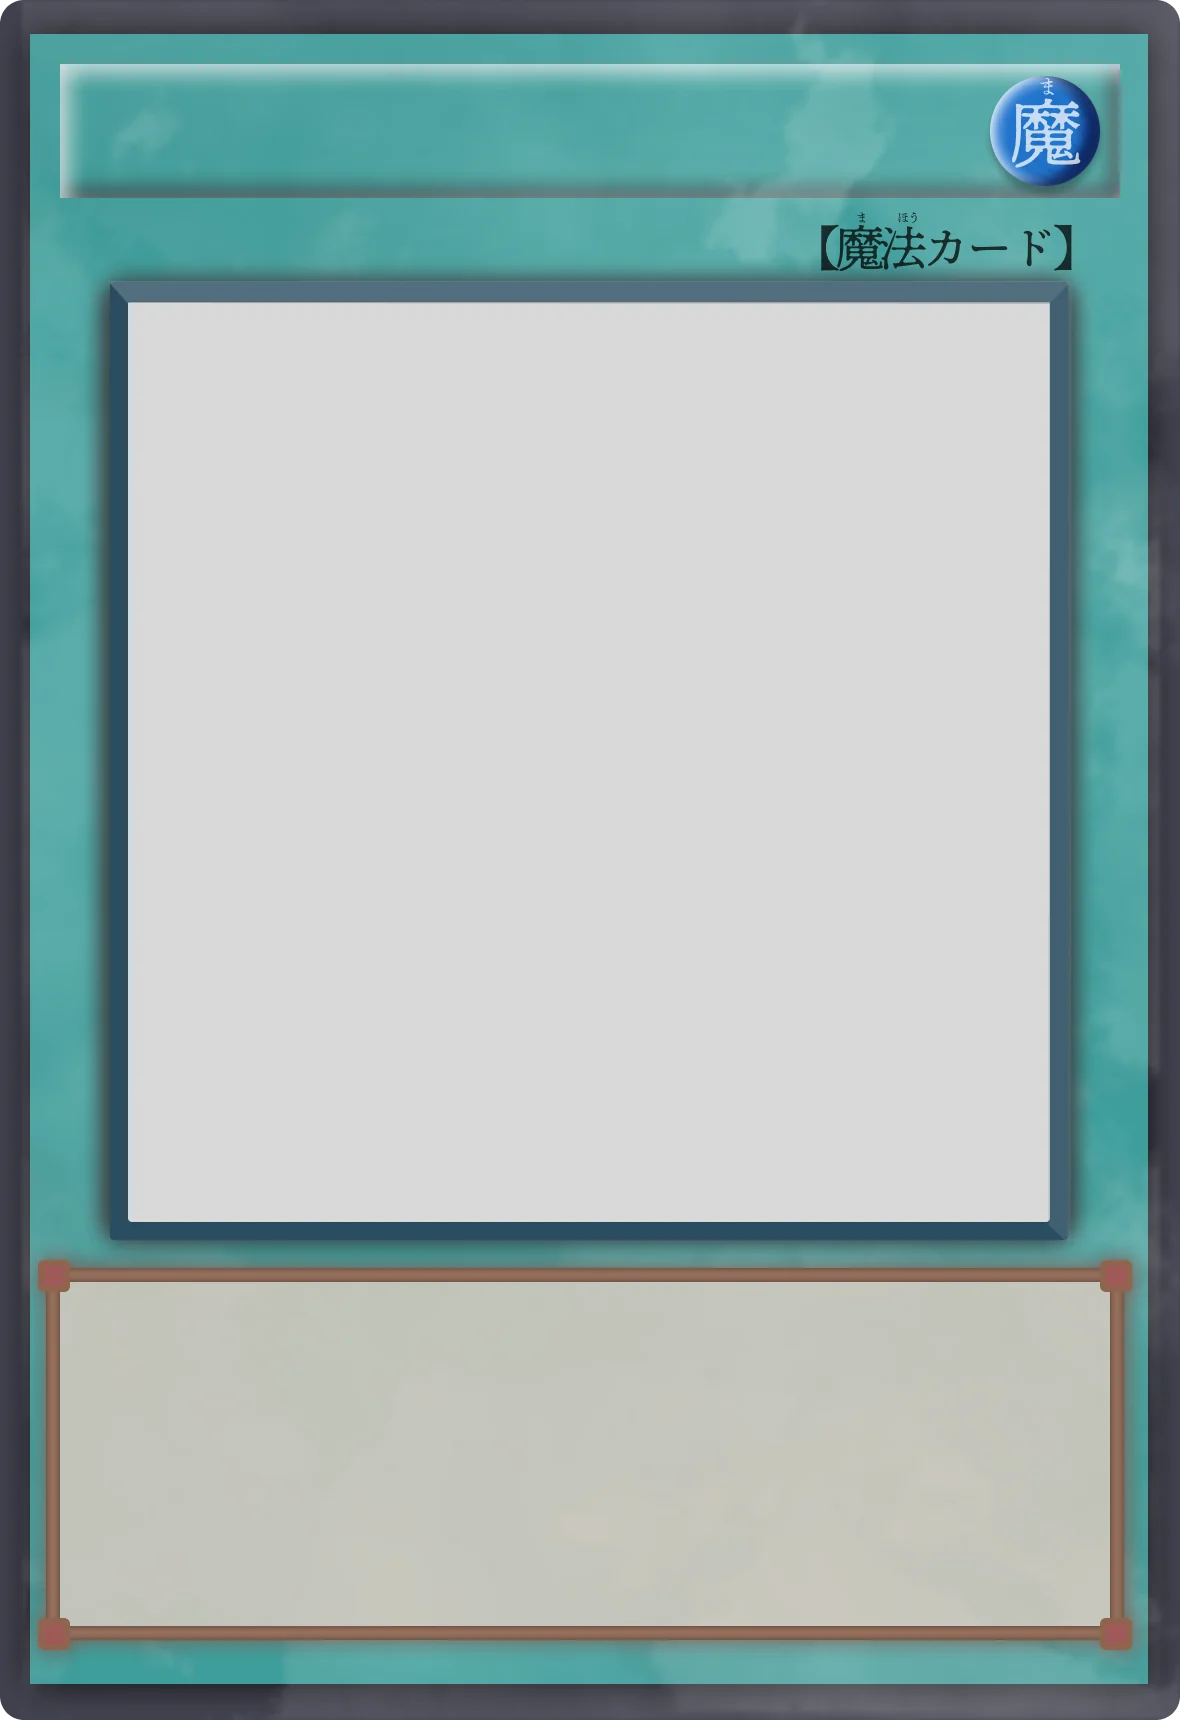
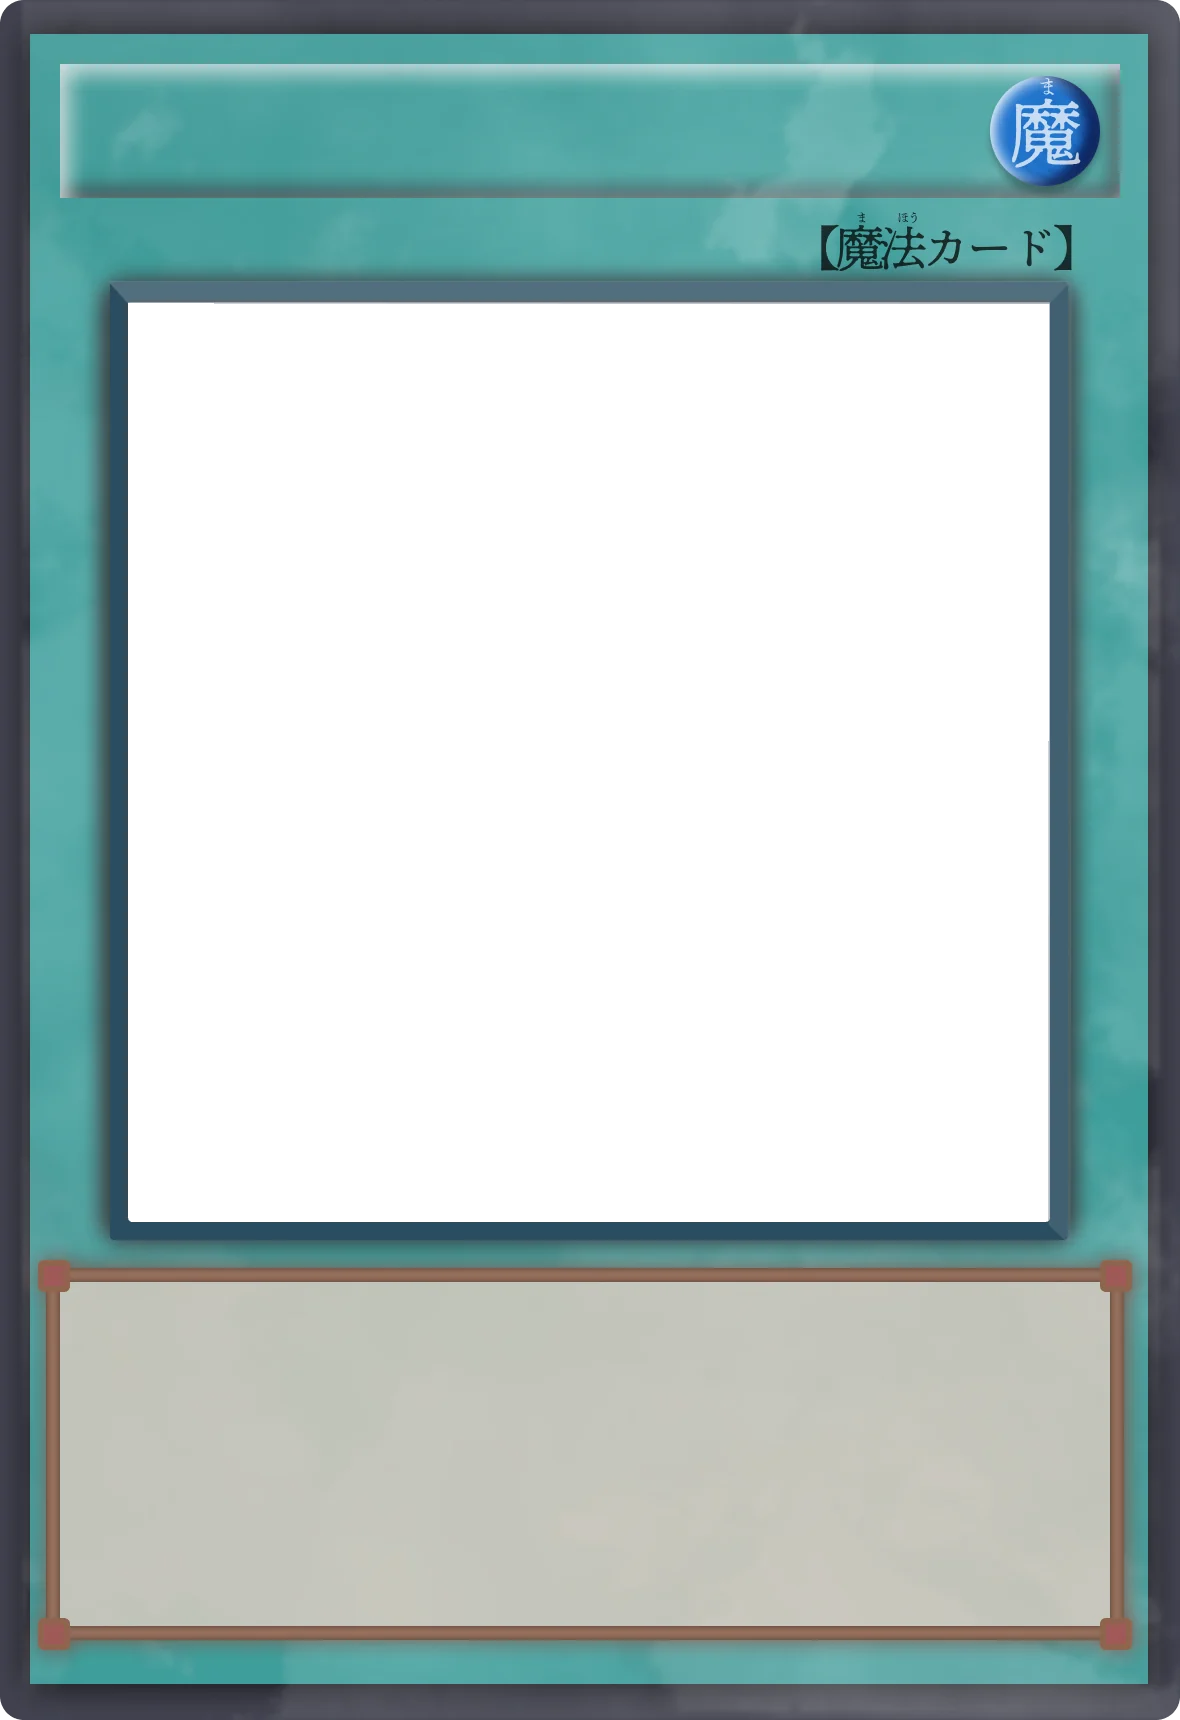
遊戯王風の枠: 絵の欄を枠画像の下に敷いて、下のすき間をなくす
Claude-Session: https://claude.ai/code/session_01P2VDzpyWFsYvAuZKcLX5At

diff --git a/index.html b/index.html
@@ -1116,16 +1116,16 @@ div.f{display:flex;flex-direction:column;gap:4px;font-weight:700;font-size:13px}
 /* editor */
 /* 遊戯王風の枠（サバ缶デザイン・Figma Frame 44〜46 / 590×860）: モンスター・魔法（装備も）・罠で画像が変わる。星の数がコスト */
 .card.ygo{--yu:calc(var(--w)/590);aspect-ratio:590/860;padding:0;background:transparent;border:none;border-radius:calc(var(--yu)*12);box-shadow:0 calc(var(--yu)*4) calc(var(--yu)*12) rgba(0,0,0,.35);color:#30211c;isolation:isolate;font-family:var(--cf,"Shippori Mincho",serif)}
-.card.ygo::before{content:"";position:absolute;inset:0;background:url("assets/ygo_mon.webp") 0 0/100% 100% no-repeat;border-radius:inherit;z-index:0;pointer-events:none}
-.card.ygo.magic::before,.card.ygo.equip::before{background-image:url("assets/ygo_mag.webp")}
-.card.ygo.trap::before{background-image:url("assets/ygo_trap.webp")}
+.card.ygo::before{content:"";position:absolute;inset:0;background:url("assets/ygo_mon.webp?v=2") 0 0/100% 100% no-repeat;border-radius:inherit;z-index:2;pointer-events:none}
+.card.ygo.magic::before,.card.ygo.equip::before{background-image:url("assets/ygo_mag.webp?v=2")}
+.card.ygo.trap::before{background-image:url("assets/ygo_trap.webp?v=2")}
 .card.ygo .c-in{position:static;display:block;height:auto;background:none;border-radius:0;overflow:visible}
-.card.ygo .c-art{position:absolute;left:calc(var(--yu)*59);top:calc(var(--yu)*151);width:calc(var(--yu)*470);height:calc(var(--yu)*460);aspect-ratio:auto;border:none;background:#d9d9d9;overflow:hidden;z-index:1}
+.card.ygo .c-art{position:absolute;left:calc(var(--yu)*62);top:calc(var(--yu)*149);width:calc(var(--yu)*465);height:calc(var(--yu)*464);aspect-ratio:auto;border:none;background:#d9d9d9;overflow:hidden;z-index:1}
 .card.ygo .c-art>img,.card.ygo .c-art>canvas{width:100%;height:100%;object-fit:cover;display:block}
 .card.editor.ygo .c-art>canvas{width:auto;height:100%;max-width:none;position:relative;left:50%;transform:translateX(-50%)}
 .card.ygo .c-art .noart{display:grid;place-items:center;width:100%;height:100%;font-size:calc(var(--yu)*28);color:#888}
 .card.ygo .c-art .c-tab,.card.ygo .m-gem,.card.ygo .fl-guide,.card.ygo .c-bgart{display:none!important}
-.card.ygo .c-name{position:absolute;left:calc(var(--yu)*41);top:calc(var(--yu)*32);width:calc(var(--yu)*505);height:calc(var(--yu)*67);padding:0!important;border:none!important;background:none;display:flex;align-items:center;justify-content:flex-start;font-size:calc(var(--yu)*40*var(--nk,1));line-height:1!important;font-weight:700;letter-spacing:-.06em;color:#30211c;z-index:2;white-space:nowrap;overflow:hidden}
+.card.ygo .c-name{position:absolute;left:calc(var(--yu)*41);top:calc(var(--yu)*32);width:calc(var(--yu)*505);height:calc(var(--yu)*67);padding:0!important;border:none!important;background:none;display:flex;align-items:center;justify-content:flex-start;font-size:calc(var(--yu)*40*var(--nk,1));line-height:1!important;font-weight:700;letter-spacing:-.06em;color:#30211c;z-index:3;white-space:nowrap;overflow:hidden}
 .card.ygo.magic .c-name,.card.ygo.equip .c-name,.card.ygo.trap .c-name{width:calc(var(--yu)*445)}
 .card.ygo .m-nm{display:block;white-space:nowrap;overflow:hidden;text-overflow:ellipsis;max-width:100%}
 /* コスト = 星。右から並ぶ。入りきらないときは「★×14」 */
@@ -1134,7 +1134,7 @@ div.f{display:flex;flex-direction:column;gap:4px;font-weight:700;font-size:13px}
 .card.ygo.trap .c-cost{right:calc(var(--yu)*170)}
 .card.ygo .c-cost .ys{display:block;flex:none;width:calc(var(--yu)*36);height:calc(var(--yu)*36);background:url("assets/ygo_star.webp") center/100% 100% no-repeat;filter:drop-shadow(0 calc(var(--yu)*1) calc(var(--yu)*1.5) rgba(0,0,0,.45))}
 .card.ygo .c-cost .ys-x{margin-right:calc(var(--yu)*4);text-shadow:0 0 calc(var(--yu)*3) rgba(255,255,255,.7)}
-.card.ygo .c-text{position:absolute;left:calc(var(--yu)*41);top:calc(var(--yu)*647);width:calc(var(--yu)*504);height:calc(var(--yu)*128);border:none;background:none;box-shadow:none;padding:0;font-family:var(--cf,"Shippori Mincho",serif);font-weight:700;font-size:calc(var(--yu)*22*var(--tk,1));line-height:1.32;color:#30211c;overflow:visible;min-height:0;z-index:2;display:block}
+.card.ygo .c-text{position:absolute;left:calc(var(--yu)*41);top:calc(var(--yu)*647);width:calc(var(--yu)*504);height:calc(var(--yu)*128);border:none;background:none;box-shadow:none;padding:0;font-family:var(--cf,"Shippori Mincho",serif);font-weight:700;font-size:calc(var(--yu)*22*var(--tk,1));line-height:1.32;color:#30211c;overflow:visible;min-height:0;z-index:3;display:block}
 .card.ygo.magic .c-text,.card.ygo.equip .c-text,.card.ygo.trap .c-text{height:calc(var(--yu)*160)}
 .card.ygo .c-text .body{max-height:calc(var(--yu)*22*1.32*4*var(--tk,1));-webkit-line-clamp:4}
 .card.ygo .c-text:has(.flv) .body{max-height:calc(var(--yu)*22*1.32*3*var(--tk,1));-webkit-line-clamp:3}

diff --git a/src/style.css b/src/style.css
@@ -1104,16 +1104,16 @@ div.f{display:flex;flex-direction:column;gap:4px;font-weight:700;font-size:13px}
 /* editor */
 /* 遊戯王風の枠（サバ缶デザイン・Figma Frame 44〜46 / 590×860）: モンスター・魔法（装備も）・罠で画像が変わる。星の数がコスト */
 .card.ygo{--yu:calc(var(--w)/590);aspect-ratio:590/860;padding:0;background:transparent;border:none;border-radius:calc(var(--yu)*12);box-shadow:0 calc(var(--yu)*4) calc(var(--yu)*12) rgba(0,0,0,.35);color:#30211c;isolation:isolate;font-family:var(--cf,"Shippori Mincho",serif)}
-.card.ygo::before{content:"";position:absolute;inset:0;background:url("assets/ygo_mon.webp") 0 0/100% 100% no-repeat;border-radius:inherit;z-index:0;pointer-events:none}
-.card.ygo.magic::before,.card.ygo.equip::before{background-image:url("assets/ygo_mag.webp")}
-.card.ygo.trap::before{background-image:url("assets/ygo_trap.webp")}
+.card.ygo::before{content:"";position:absolute;inset:0;background:url("assets/ygo_mon.webp?v=2") 0 0/100% 100% no-repeat;border-radius:inherit;z-index:2;pointer-events:none}
+.card.ygo.magic::before,.card.ygo.equip::before{background-image:url("assets/ygo_mag.webp?v=2")}
+.card.ygo.trap::before{background-image:url("assets/ygo_trap.webp?v=2")}
 .card.ygo .c-in{position:static;display:block;height:auto;background:none;border-radius:0;overflow:visible}
-.card.ygo .c-art{position:absolute;left:calc(var(--yu)*59);top:calc(var(--yu)*151);width:calc(var(--yu)*470);height:calc(var(--yu)*460);aspect-ratio:auto;border:none;background:#d9d9d9;overflow:hidden;z-index:1}
+.card.ygo .c-art{position:absolute;left:calc(var(--yu)*62);top:calc(var(--yu)*149);width:calc(var(--yu)*465);height:calc(var(--yu)*464);aspect-ratio:auto;border:none;background:#d9d9d9;overflow:hidden;z-index:1}
 .card.ygo .c-art>img,.card.ygo .c-art>canvas{width:100%;height:100%;object-fit:cover;display:block}
 .card.editor.ygo .c-art>canvas{width:auto;height:100%;max-width:none;position:relative;left:50%;transform:translateX(-50%)}
 .card.ygo .c-art .noart{display:grid;place-items:center;width:100%;height:100%;font-size:calc(var(--yu)*28);color:#888}
 .card.ygo .c-art .c-tab,.card.ygo .m-gem,.card.ygo .fl-guide,.card.ygo .c-bgart{display:none!important}
-.card.ygo .c-name{position:absolute;left:calc(var(--yu)*41);top:calc(var(--yu)*32);width:calc(var(--yu)*505);height:calc(var(--yu)*67);padding:0!important;border:none!important;background:none;display:flex;align-items:center;justify-content:flex-start;font-size:calc(var(--yu)*40*var(--nk,1));line-height:1!important;font-weight:700;letter-spacing:-.06em;color:#30211c;z-index:2;white-space:nowrap;overflow:hidden}
+.card.ygo .c-name{position:absolute;left:calc(var(--yu)*41);top:calc(var(--yu)*32);width:calc(var(--yu)*505);height:calc(var(--yu)*67);padding:0!important;border:none!important;background:none;display:flex;align-items:center;justify-content:flex-start;font-size:calc(var(--yu)*40*var(--nk,1));line-height:1!important;font-weight:700;letter-spacing:-.06em;color:#30211c;z-index:3;white-space:nowrap;overflow:hidden}
 .card.ygo.magic .c-name,.card.ygo.equip .c-name,.card.ygo.trap .c-name{width:calc(var(--yu)*445)}
 .card.ygo .m-nm{display:block;white-space:nowrap;overflow:hidden;text-overflow:ellipsis;max-width:100%}
 /* コスト = 星。右から並ぶ。入りきらないときは「★×14」 */
@@ -1122,7 +1122,7 @@ div.f{display:flex;flex-direction:column;gap:4px;font-weight:700;font-size:13px}
 .card.ygo.trap .c-cost{right:calc(var(--yu)*170)}
 .card.ygo .c-cost .ys{display:block;flex:none;width:calc(var(--yu)*36);height:calc(var(--yu)*36);background:url("assets/ygo_star.webp") center/100% 100% no-repeat;filter:drop-shadow(0 calc(var(--yu)*1) calc(var(--yu)*1.5) rgba(0,0,0,.45))}
 .card.ygo .c-cost .ys-x{margin-right:calc(var(--yu)*4);text-shadow:0 0 calc(var(--yu)*3) rgba(255,255,255,.7)}
-.card.ygo .c-text{position:absolute;left:calc(var(--yu)*41);top:calc(var(--yu)*647);width:calc(var(--yu)*504);height:calc(var(--yu)*128);border:none;background:none;box-shadow:none;padding:0;font-family:var(--cf,"Shippori Mincho",serif);font-weight:700;font-size:calc(var(--yu)*22*var(--tk,1));line-height:1.32;color:#30211c;overflow:visible;min-height:0;z-index:2;display:block}
+.card.ygo .c-text{position:absolute;left:calc(var(--yu)*41);top:calc(var(--yu)*647);width:calc(var(--yu)*504);height:calc(var(--yu)*128);border:none;background:none;box-shadow:none;padding:0;font-family:var(--cf,"Shippori Mincho",serif);font-weight:700;font-size:calc(var(--yu)*22*var(--tk,1));line-height:1.32;color:#30211c;overflow:visible;min-height:0;z-index:3;display:block}
 .card.ygo.magic .c-text,.card.ygo.equip .c-text,.card.ygo.trap .c-text{height:calc(var(--yu)*160)}
 .card.ygo .c-text .body{max-height:calc(var(--yu)*22*1.32*4*var(--tk,1));-webkit-line-clamp:4}
 .card.ygo .c-text:has(.flv) .body{max-height:calc(var(--yu)*22*1.32*3*var(--tk,1));-webkit-line-clamp:3}
